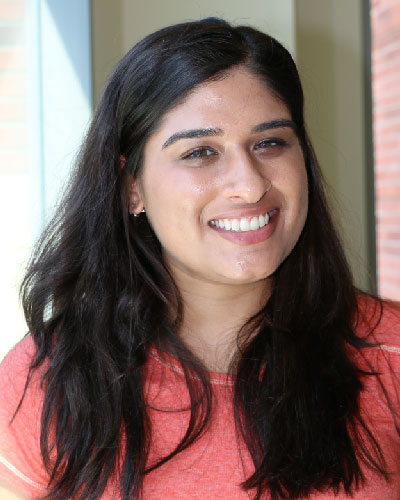
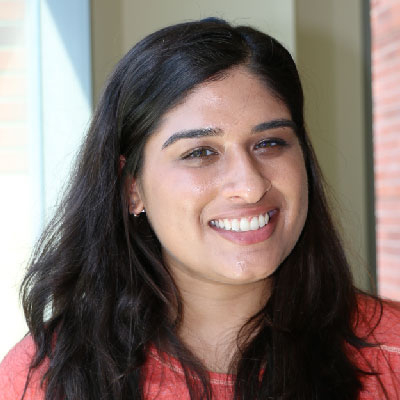
added maral and melisa; better theo photo

diff --git a/about.md b/about.md
@@ -78,11 +78,29 @@ Fax: (213) 821-5696
 	</li>
 
 	<li class="flex-item">
+	<a name="maralkasiri"></a>
+	<img src="../Photos/maral.jpg" height="150px"/><br>
+	<font size="3"><b>Maral Kasiri</b></font><br>
+	<font size="3">BME Masters student</font><br>
+	<a href="mailto:kasiri@usc.edu" target="_top">kasiri@usc.edu</a><br>
+	Exploring EMG muscle control of a robotic manipulator.
+	</li>
+
+	<li class="flex-item">
 	<a name="priyankavachhani"></a>
 	<img src="../Photos/priyanka.jpg" height="150px" /><br>
 	<font size="3"><b>Priyanka Vachhani</b></font><br>
 	<font size="3">INF MS student</font><br>
 	<a href="mailto:pvachhan@usc.edu" target="_top">pvachhan@usc.edu</a><br>
+	</li>
+
+	<li class="flex-item">
+	<a name="melisa"></a>
+	<img src="../Photos/melisa.jpg" height="150px"/><br>
+	<font size="3"><b>Melisa Osborne</b></font><br>
+	<font size="3">BME Masters student</font><br>
+	<a href="mailto:mgosborn@usc.edu" target="_top">mgosborn@usc.edu</a><br>
+	Description
 	</li>
 
 	<li class="flex-item">
@@ -143,26 +161,26 @@ Fax: (213) 821-5696
 		<a name="taegyumkim"></a>
 		<img src="../Photos/taegyum.jpg" height="150px" /><br>
 		<font size="3"><b>Taegyum Kim</b></font><br>
+		<a href="mailto:taegyumk@usc.edu" target="_top">taegyumk@usc.edu</a><br>		
 		<font size="3">Computer Science Graduate (USC)</font><br>
 		Focused on API development and interface development.<br>
-		<a href="mailto:taegyumk@usc.edu" target="_top">taegyumk@usc.edu</a><br>		
 	</li>
 
 
 	<li class="flex-item">
 		<a name="theodenisart"></a>
-		<img src="https://user-images.githubusercontent.com/4623063/27665013-8ce946c0-5c1f-11e7-890f-c7a038bb03c9.jpg" height="150px" /><br>
+		<img src="../Photos/theo.jpg" height="150px" /><br>
 		<font size="3"><b>Théo Denisart</b></font><br>
+		<a href="mailto:theo-tim.denisart@epfl.ch" target="_top">theo-tim.denisart@epfl.ch</a><br>
 		<font size="3">Visiting Scholar from EPFL (Swiss Federal Institute of Technology)</font><br> Interested in designing bio-inspired systems, novel mechanical designs, and evolutionary robotics. <br>
-		<a href="mailto:pvachhan@usc.edu" target="_top">theo-tim.denisart@epfl.ch</a><br>
 	</li>
 
 	<li class="flex-item">
 		<a name="dariourbina"></a>
 		<img src="../Photos/dariourbina.jpg" height="150px" /><br>
 		<font size="3"><b>Darío Urbina</b></font><br>
-		<font size="3">Designing robotic platforms for uncovering control mechanisms of balance in aves and quadrupeds.<br></font>
 		<a href="mailto:pvachhan@usc.edu" target="_top">dario41tan@hotmail.com</a><br>
+		<font size="3">Designing robotic platforms for uncovering control mechanisms of balance in aves and quadrupeds.<br></font>
 	</li>
 </ul>
 
@@ -173,11 +191,9 @@ Fax: (213) 821-5696
 # Current Interns
 <a href="../work/"> Information for Prospective Interns</a>  
 <b>Giridhar Akila Dhakshinamoorthy</b> - CS Masters Student  
-<b>Melisa Osborne</b> - BME Undergraduate  
 <b>Shaohui Quian</b> - EE Masters Student  
 <b>Niharika Singh</b> - BME Masters Student  
 <b>Keegan Bate</b> - BME Masters Student  
-<b>Maral Kasiri</b> - BME Masters Student  
 <b>Taylor Stroobosscher</b> - EE undergrad  
 <b>Mayumi Ishikawa</b> -  BME undergrad  
 <b>Brandon Miura</b> - BME undergrad
